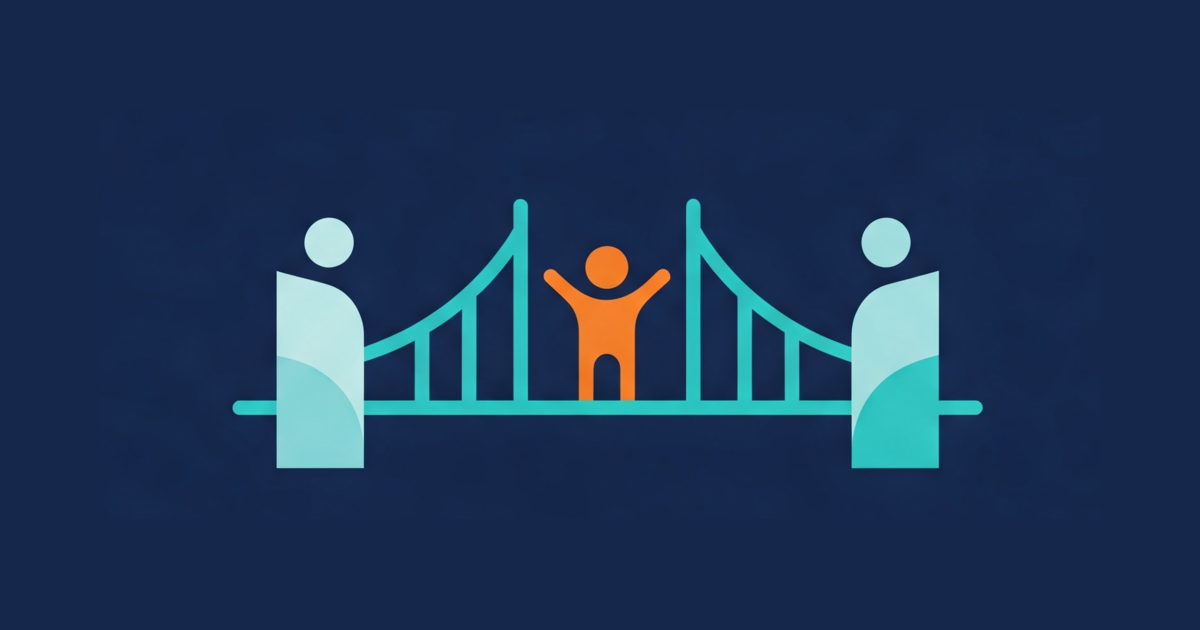
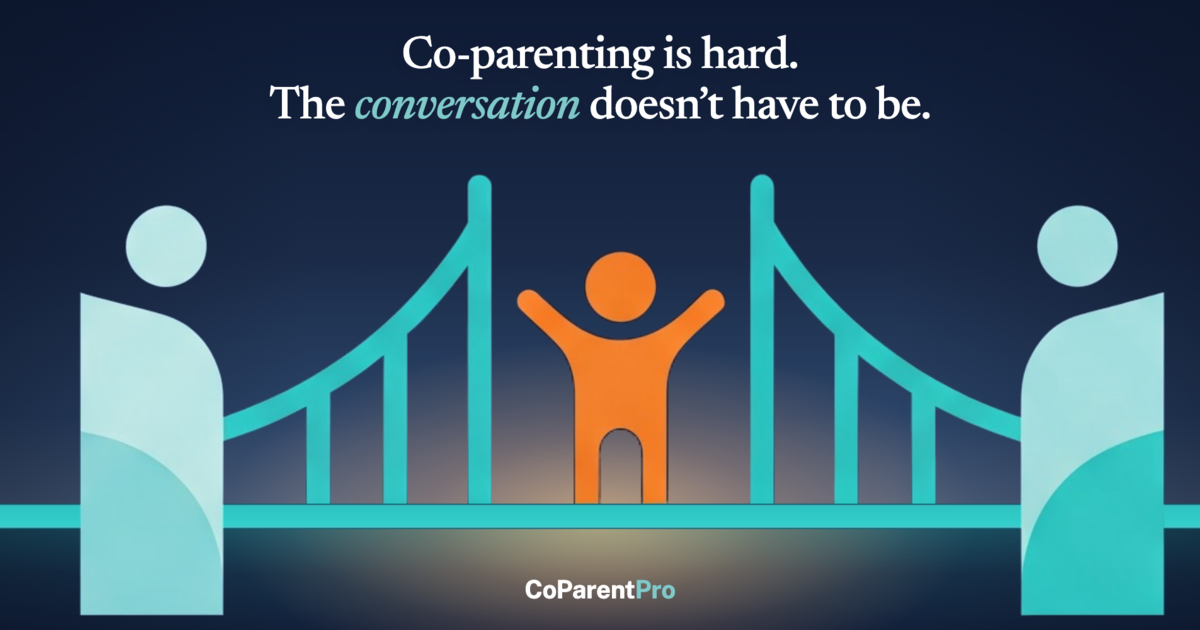
feat(site): use the Play Store feature graphic as the social share image
Replace the wordless og-image.png with a 1200x630 center crop of the
feature graphic, which carries the tagline and wordmark, and describe
it in the OpenGraph alt text.

Claude-Session: https://claude.ai/code/session_0161H6frmnFWHQwfC9kPkxtj

diff --git a/src/app/layout.tsx b/src/app/layout.tsx
@@ -39,7 +39,7 @@ export const metadata: Metadata = {
         url: "/images/og-image.png",
         width: 1200,
         height: 630,
-        alt: SITE_NAME,
+        alt: "CoParentPro — Co-parenting is hard. The conversation doesn’t have to be.",
       },
     ],
   },
